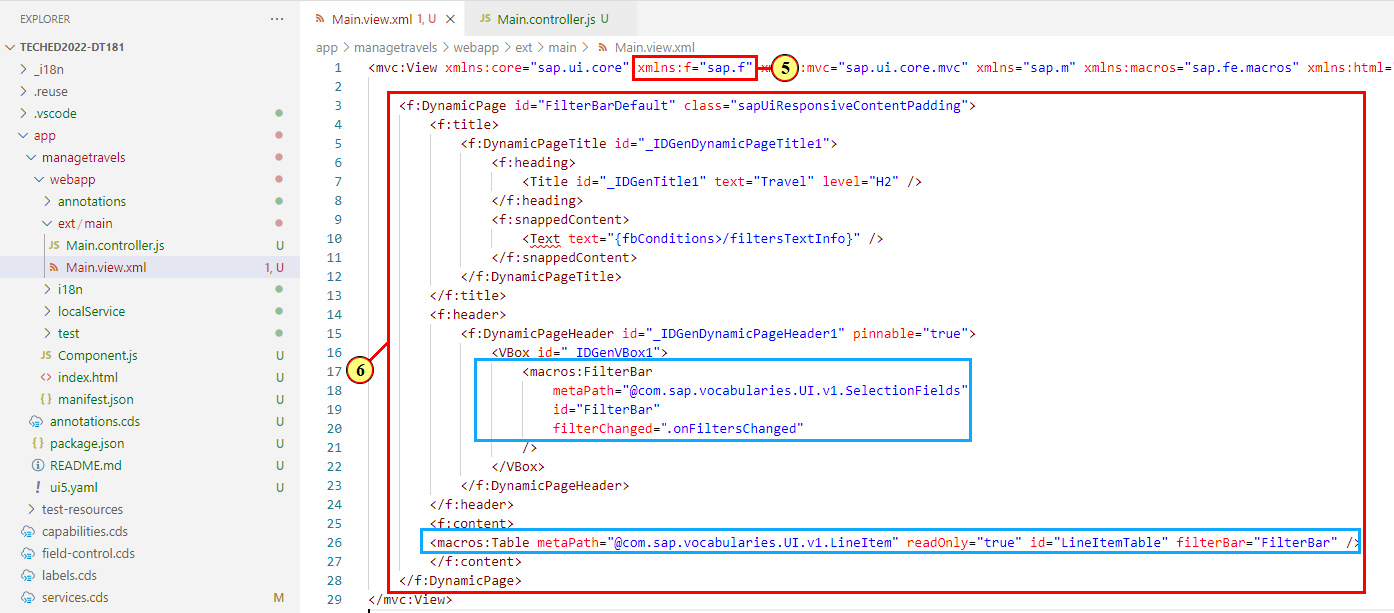
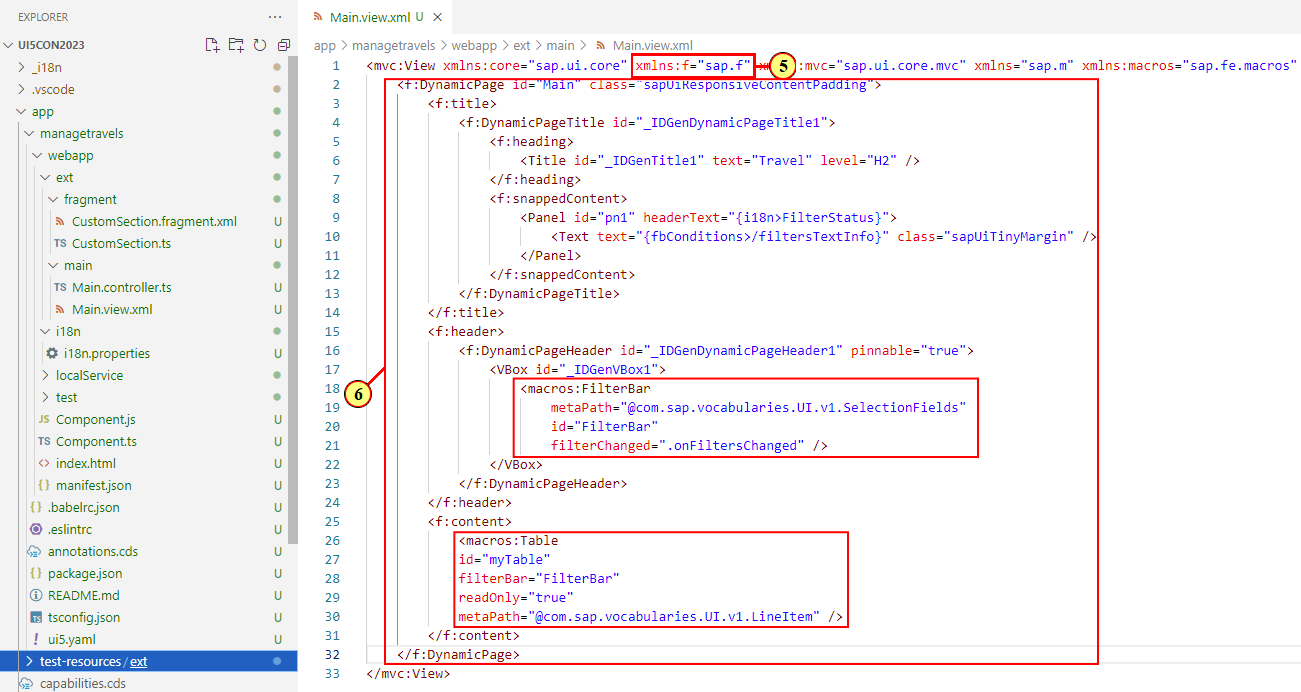
exercises updated

Changed region(s): [[0.0, 0.0, 1.0, 1.0], [0.7071, 0.3409, 0.8301, 0.3719]]

diff --git a/exercises/ex3/README.md b/exercises/ex3/README.md
@@ -40,7 +40,7 @@ xmlns:f="sap.f"
                     <Title id="_IDGenTitle1" text="Travel" level="H2" />
                 </f:heading>
                 <f:snappedContent>
-                    <Panel headerText="{i18n>FilterStatus}">
+                    <Panel id="pn1" headerText="{i18n>FilterStatus}">
                         <Text text="{fbConditions>/filtersTextInfo}" class="sapUiTinyMargin" />
                     </Panel>
                 </f:snappedContent>
